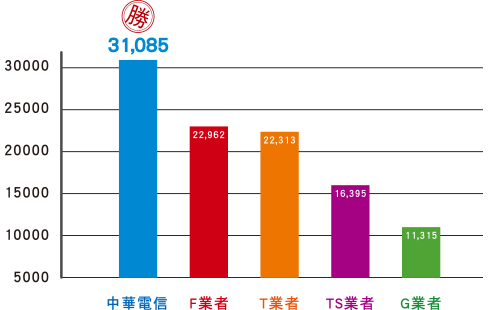
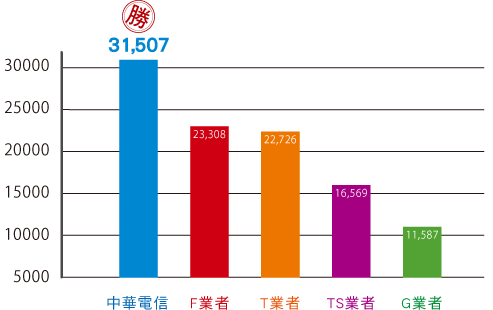
大4G優勢
更新圖表
更新日期

diff --git a/demo/advantage/index.html b/demo/advantage/index.html
@@ -1458,7 +1458,7 @@ height="0" width="0" style="display:none;visibility:hidden"></iframe></noscript>
 			</ul>
 			<ul class="txt">
 				<li><h5 class="f-col f-view">基地台最多</h5></li>
-				<li><p class="f-col f-view">根據NCC網站公告，截至109.5.31，<span>中華電信基地台數量為業界最多</span>，偏遠山區通話不斷線，到哪都能順暢上網，成為出遊的最好幫手。</p></li>
+				<li><p class="f-col f-view">根據NCC網站公告，截至109/6/30，<span>中華電信基地台數量為業界最多</span>，偏遠山區通話不斷線，到哪都能順暢上網，成為出遊的最好幫手。</p></li>
 			</ul>
 			<ul class="graph">
 				<li><img  class="f-col f-view"src="images/graph_08.png" /></li>
@@ -1476,7 +1476,7 @@ height="0" width="0" style="display:none;visibility:hidden"></iframe></noscript>
 				<li><div class="btn f-col f-view"><a  href="https://www.emome.net/internet_coverage" target="_blank">涵蓋範圍查詢</a></div></li>
 			</ul>
 			<ul>
-				<li class="f-col f-view note">*備註: 1.「涵蓋最廣」係指中華電信已於台、澎、金、馬全部368鄉鎮市區都設有4G基地台提供4G服務；其中，最偏遠的金門縣烏坵鄉離島，目前僅中華電信提供4G服務。2.「基地台最多」係根據通傳會頻率資料庫系統109.5.31公告，中華電信基地台設備數量最多。3.「頻寬最大」係指中華電信擁有900 + 1800 + 2100 + 2600MHz 四頻段，上下行頻寬共計180MHz，居4G電信業者之冠。</li>
+				<li class="f-col f-view note">*備註: 1.「涵蓋最廣」係指中華電信已於台、澎、金、馬全部368鄉鎮市區都設有4G基地台提供4G服務；其中，最偏遠的金門縣烏坵鄉離島，目前僅中華電信提供4G服務。2.「基地台最多」係根據通傳會頻率資料庫系統109/6/30公告，中華電信基地台設備數量最多。3.「頻寬最大」係指中華電信擁有900 + 1800 + 2100 + 2600MHz 四頻段，上下行頻寬共計180MHz，居4G電信業者之冠。</li>
 			</ul>
 			<hr/>
 			<h4 class="f-col f-view">技術領先</h4>
